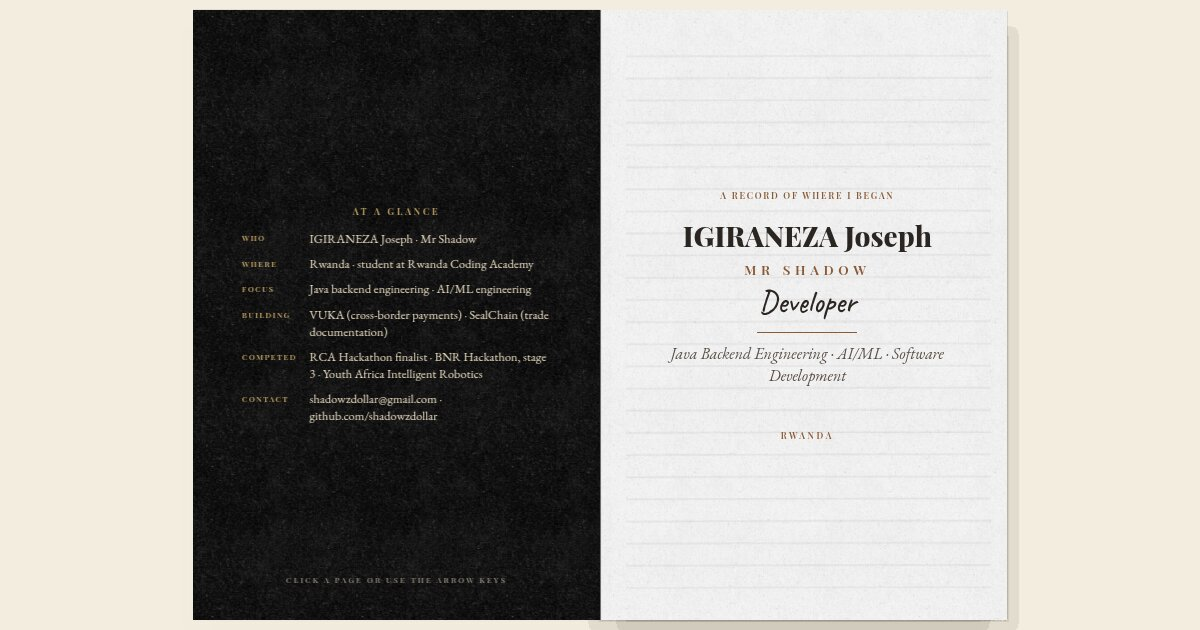
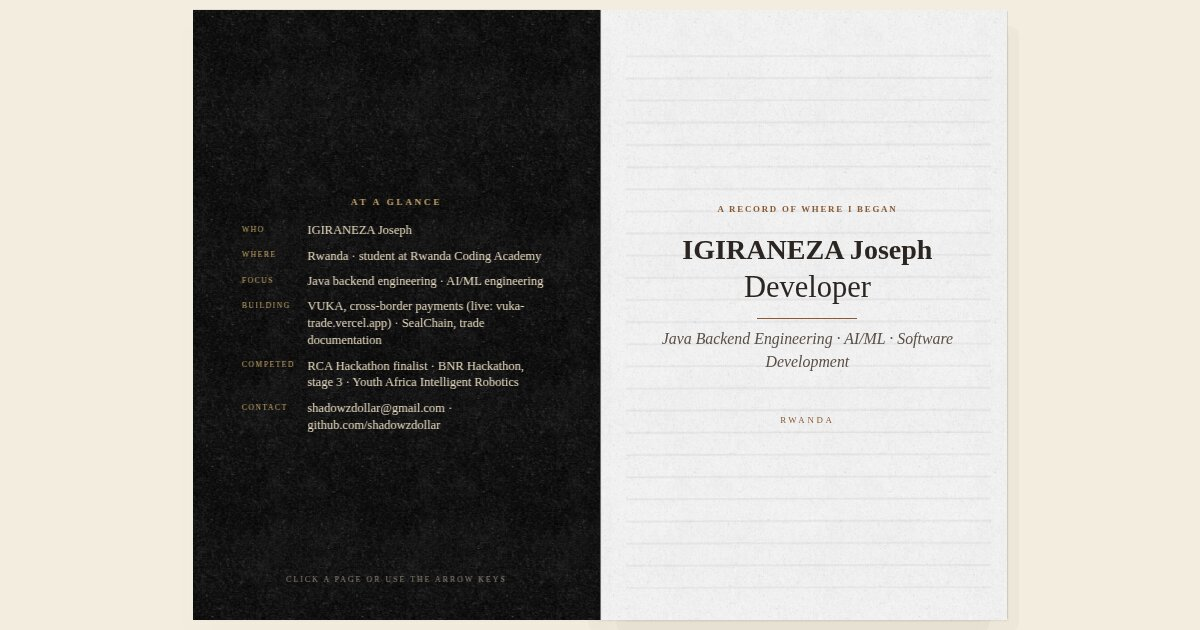
Update: contents.md,css,images,index.html (2026-10-13 11:08)

diff --git a/index.html b/index.html
@@ -3,11 +3,11 @@
   <head>
     <meta charset="utf-8" />
     <title>I.JOSEPH</title>
-    <meta content="Portfolio of IGIRANEZA Joseph (Mr Shadow), a developer from Rwanda focused on Java backend engineering and AI/ML engineering." name="description" />
-    <meta content="IGIRANEZA Joseph | Mr Shadow — Developer" property="og:title" />
-    <meta content="Portfolio of IGIRANEZA Joseph (Mr Shadow), a developer from Rwanda focused on Java backend engineering and AI/ML engineering." property="og:description" />
-    <meta content="IGIRANEZA Joseph | Mr Shadow — Developer" property="twitter:title" />
-    <meta content="Portfolio of IGIRANEZA Joseph (Mr Shadow), a developer from Rwanda focused on Java backend engineering and AI/ML engineering." property="twitter:description" />
+    <meta content="Portfolio of IGIRANEZA Joseph, a developer from Rwanda focused on Java backend engineering and AI/ML engineering." name="description" />
+    <meta content="IGIRANEZA Joseph — Developer" property="og:title" />
+    <meta content="Portfolio of IGIRANEZA Joseph, a developer from Rwanda focused on Java backend engineering and AI/ML engineering." property="og:description" />
+    <meta content="IGIRANEZA Joseph — Developer" property="twitter:title" />
+    <meta content="Portfolio of IGIRANEZA Joseph, a developer from Rwanda focused on Java backend engineering and AI/ML engineering." property="twitter:description" />
     <meta property="og:type" content="website" />
     <meta content="summary_large_image" name="twitter:card" />
     <meta content="width=device-width, initial-scale=1" name="viewport" />
@@ -82,8 +82,8 @@
     <div class="preloader" id="preloader" role="status" aria-label="Loading portfolio">
       <div class="pl-inner">
         <div class="pl-photo"><img src="images/portrait.jpg" alt="IGIRANEZA Joseph" width="480" height="480" fetchpriority="high" /></div>
-        <div class="pl-name">IGIRANEZA Joseph</div>
-        <div class="pl-alias">Mr Shadow</div>
+        <div class="pl-name">Developer · Rwanda</div>
+        <div class="pl-alias">IGIRANEZA Joseph</div>
         <div class="pl-bar"><span></span></div>
         <div class="pl-note">opening the book…</div>
       </div>
@@ -91,7 +91,7 @@
     <noscript><style>.preloader { display: none; }</style></noscript>
     <div class="pm-body">
       <nav class="topbar" aria-label="Quick navigation">
-        <a href="#" class="tb-brand" data-goto="title">Mr Shadow</a>
+        <a href="#" class="tb-brand" data-goto="title">IGIRANEZA Joseph</a>
         <div class="tb-links">
           <a href="#" data-goto="contents">Contents</a>
           <a href="#" data-goto="vuka">Projects</a>
@@ -104,7 +104,7 @@
       </nav>
       <div class="pmheader">
         <div class="pmpadding">
-          <div class="pm-h3">IGIRANEZA Joseph<br />Mr Shadow · Developer</div>
+          <div class="pm-h3">IGIRANEZA Joseph<br />Developer</div>
         </div>
       </div>
       <div class="document-view wf-section">
@@ -114,13 +114,13 @@
             <div class="pm-text">Click to <br />Open Book!</div><img src="images/6054c759190363824b1d7fca_arrowtrans.gif" loading="lazy" alt="" class="gif-arrow" />
           </div>
           <div data-w-id="65f307ee-3fe8-2992-eb5c-3535a026dd89" class="spine cover">
-            <div class="right-side-front"><img src="images/6054cb7669098e7c9a5b49f6_cover.jpg" loading="eager" id="w-node-_65f307ee-3fe8-2992-eb5c-3535a026dd8b-461d7f52" sizes="(max-width: 479px) 39vw, (max-width: 767px) 36vw, (max-width: 991px) 47vw, 41vw" alt="Book cover: IGIRANEZA Joseph, Mr Shadow, Developer" srcset="images/6054cb7669098e7c9a5b49f6_cover-p-500.jpeg 500w, images/6054cb7669098e7c9a5b49f6_cover.jpg 800w" class="right-image-contain" />
+            <div class="right-side-front"><img src="images/6054cb7669098e7c9a5b49f6_cover.jpg" loading="eager" id="w-node-_65f307ee-3fe8-2992-eb5c-3535a026dd8b-461d7f52" sizes="(max-width: 479px) 39vw, (max-width: 767px) 36vw, (max-width: 991px) 47vw, 41vw" alt="Book cover: IGIRANEZA Joseph, Developer" srcset="images/6054cb7669098e7c9a5b49f6_cover-p-500.jpeg 500w, images/6054cb7669098e7c9a5b49f6_cover.jpg 800w" class="right-image-contain" />
               <div id="w-node-_65f307ee-3fe8-2992-eb5c-3535a026dd8c-461d7f52" class="image-overlay"></div>
               <div class="page-content cover">
 <div class="cover-frame">
   <div class="cv-name">IGIRANEZA Joseph</div>
   <div class="cv-orn">✦</div>
-  <div class="cv-photo"><img src="images/portrait.jpg" alt="Portrait of IGIRANEZA Joseph, Mr Shadow" /></div>
+  <div class="cv-photo"><img src="images/portrait.jpg" alt="Portrait of IGIRANEZA Joseph" /></div>
   <div class="cv-role">Developer</div>
   <div class="cv-orn">✦</div>
   <div class="cv-tag">Java Backend Engineering · AI/ML · Software Development</div>
@@ -133,7 +133,7 @@
   <div class="glance">
     <div class="gl-head">At a glance</div>
     <dl>
-      <dt>Who</dt><dd>IGIRANEZA Joseph · Mr Shadow</dd>
+      <dt>Who</dt><dd>IGIRANEZA Joseph</dd>
       <dt>Where</dt><dd>Rwanda · student at Rwanda Coding Academy</dd>
       <dt>Focus</dt><dd>Java backend engineering · AI/ML engineering</dd>
       <dt>Building</dt><dd>VUKA, cross-border payments (live: vuka-trade.vercel.app) · SealChain, trade documentation</dd>
@@ -152,7 +152,6 @@
 <div class="titlepage">
   <div class="kicker center">A record of where I began</div>
   <h1 class="tp-name">IGIRANEZA Joseph</h1>
-  <div class="tp-alias">MR SHADOW</div>
   <div class="tp-role">Developer</div>
   <div class="tp-rule"></div>
   <div class="tp-tag">Java Backend Engineering · AI/ML · Software Development</div>
@@ -167,7 +166,7 @@
           <div class="spine _3">
             <div class="right-side-front"><img src="images/6054cb657ad51c7bc3a37a65_page.jpg" id="w-node-_65f307ee-3fe8-2992-eb5c-3535a026dd99-461d7f52" sizes="(max-width: 479px) 39vw, (max-width: 767px) 36vw, (max-width: 991px) 47vw, 41vw" loading="lazy" alt="" srcset="images/6054cb657ad51c7bc3a37a65_page-p-500.jpeg 500w, images/6054cb657ad51c7bc3a37a65_page.jpg 800w" class="right-image-contain" />
               <div id="w-node-_65f307ee-3fe8-2992-eb5c-3535a026dd9a-461d7f52" class="image-overlay"></div>
-              <div class="page-content paper"><div class="pc" data-page="about"><div class="kicker">01 · About</div><h2 class="ptitle">More Than Code</h2><div class="sub">Who I Am</div><p>I am IGIRANEZA Joseph, known as <strong>Mr Shadow</strong>, a developer from Rwanda who builds technology that solves real problems.</p><p>I started programming in <strong>S4, in 2025</strong>, moving from HTML, CSS, JavaScript, PHP and C to C++, Python and Java.</p><p>Today I study at <strong>Rwanda Coding Academy</strong>, keeping <strong>87+ marks across my subjects</strong> while building projects outside the classroom.</p><h3 class="h3">How I work</h3><ol class="pipeline"><li>Problem</li><li>Architecture</li><li>Implementation</li><li>Testing</li><li>Iteration</li></ol></div><div class="folio">3</div></div>
+              <div class="page-content paper"><div class="pc" data-page="about"><div class="kicker">01 · About</div><h2 class="ptitle">More Than Code</h2><div class="sub">Who I Am</div><p>I am <strong>IGIRANEZA Joseph</strong>, a developer from Rwanda who builds technology that solves real problems.</p><p>I started programming in <strong>S4, in 2025</strong>, moving from HTML, CSS, JavaScript, PHP and C to C++, Python and Java.</p><p>Today I study at <strong>Rwanda Coding Academy</strong>, keeping <strong>87+ marks across my subjects</strong> while building projects outside the classroom.</p><h3 class="h3">How I work</h3><ol class="pipeline"><li>Problem</li><li>Architecture</li><li>Implementation</li><li>Testing</li><li>Iteration</li></ol></div><div class="folio">3</div></div>
             </div>
             <div class="left-side-back"><img src="images/6054cb657ad51c7bc3a37a65_page.jpg" id="w-node-_65f307ee-3fe8-2992-eb5c-3535a026dd9c-461d7f52" sizes="(max-width: 479px) 39vw, (max-width: 767px) 36vw, (max-width: 991px) 47vw, 41vw" loading="lazy" alt="" srcset="images/6054cb657ad51c7bc3a37a65_page-p-500.jpeg 500w, images/6054cb657ad51c7bc3a37a65_page.jpg 800w" class="left-side-contain" />
               <div id="w-node-_65f307ee-3fe8-2992-eb5c-3535a026dd9d-461d7f52" class="image-overlay left"></div>
@@ -200,7 +199,7 @@
               <div class="page-content paper"><div class="pc" data-page="connect"><div class="kicker">07 · Contact</div><h2 class="ptitle">Let’s Build Something</h2><div class="sub"></div><p>If you want to talk about software, AI/ML, backend engineering, technology, or a project worth building, I’d be happy to connect.</p>
 <div class="card">
   <div class="card-name">IGIRANEZA Joseph</div>
-  <div class="card-alias">Mr Shadow · Developer</div>
+  <div class="card-alias">Developer</div>
   <div class="card-tag">Java Backend Engineering · AI/ML · Software Development</div>
   <p class="field"><img class="brand" src="images/icons/github.svg" alt="" /><span class="label">GitHub</span> <a href="https://github.com/shadowzdollar" target="_blank" rel="noopener">github.com/shadowzdollar</a></p>
   <p class="field"><img class="brand" src="images/icons/gmail.svg" alt="" /><span class="label">Email</span> <a href="mailto:shadowzdollar@gmail.com">shadowzdollar@gmail.com</a></p>
@@ -222,16 +221,15 @@
               <div id="w-node-ab5ca951-d5ce-0879-2ac5-e6dd4af0de9c-461d7f52" class="image-overlay"></div>
               <div class="page-content dark">
 <div class="endpaper">
-  <div class="ep-small">IGIRANEZA Joseph</div>
-  <div class="ep-hand">— Mr Shadow</div>
+  <div class="ep-hand">— IGIRANEZA Joseph</div>
 </div></div>
             </div>
             <div class="left-side-back"><img src="images/6054cb7669098e7c9a5b49f6_cover.jpg" id="w-node-ab5ca951-d5ce-0879-2ac5-e6dd4af0de9e-461d7f52" sizes="(max-width: 479px) 39vw, (max-width: 767px) 172.576904296875px, (max-width: 991px) 47vw, 41vw" loading="lazy" alt="" srcset="images/6054cb7669098e7c9a5b49f6_cover-p-500.jpeg 500w, images/6054cb7669098e7c9a5b49f6_cover.jpg 800w" class="left-side-contain" />
               <div id="w-node-ab5ca951-d5ce-0879-2ac5-e6dd4af0de9f-461d7f52" class="image-overlay left"></div>
               <div class="page-content cover">
 <div class="cover-frame back">
-  <div class="cv-mono">MS</div>
-  <div class="cv-role">IGIRANEZA Joseph · Mr Shadow</div>
+  <div class="cv-mono">IJ</div>
+  <div class="cv-role">IGIRANEZA Joseph</div>
   <div class="cv-tag">github.com/shadowzdollar</div>
 </div></div>
             </div>
@@ -242,8 +240,8 @@
         <div class="pmpadding">
           <div class="pm-center">
             <div class="product-description">
-              <div class="pm-h3">Mr Shadow</div>
-              <div class="description">IGIRANEZA Joseph — a developer from Rwanda.<br />Java Backend Engineering · AI/ML · Software Development</div><a href="https://github.com/shadowzdollar" target="_blank" rel="noopener" class="pmbutton w-button">Explore my GitHub</a>
+              <div class="pm-h3">IGIRANEZA Joseph</div>
+              <div class="description">A developer from Rwanda.<br />Java Backend Engineering · AI/ML · Software Development</div><a href="https://github.com/shadowzdollar" target="_blank" rel="noopener" class="pmbutton w-button">Explore my GitHub</a>
             </div>
           </div>
         </div>
@@ -253,10 +251,10 @@
           <div class="pm-center">
             <div>
               <div class="zine-credits">
-                <div class="footer">IGIRANEZA Joseph · Mr Shadow</div>
+                <div class="footer">IGIRANEZA Joseph</div>
               </div><img src="images/handshake-stamp.gif" loading="eager" alt="Two hands shaking" class="logo" />
               <div class="footer">The next page is still being written.<br /><a href="https://github.com/shadowzdollar" target="_blank" rel="noopener" class="pm-link">GitHub</a></div>
-              <div class="credit">© 2026 Mr Shadow · <a href="mailto:shadowzdollar@gmail.com" class="pm-link">shadowzdollar@gmail.com</a></div>
+              <div class="credit">© 2026 IGIRANEZA Joseph · <a href="mailto:shadowzdollar@gmail.com" class="pm-link">shadowzdollar@gmail.com</a></div>
             </div>
           </div>
         </div>

diff --git a/css/portfolio.css b/css/portfolio.css
@@ -510,7 +510,7 @@ html:has(.preloader:not(.is-done)) { overflow: hidden; }
   color: var(--gold);
   animation: pl-fade 0.8s 0.25s ease-out both;
 }
-.pl-alias { margin-top: 2px; font-family: var(--hand); font-size: 44px; line-height: 1.1; animation: pl-fade 0.8s 0.4s ease-out both; }
+.pl-alias { margin-top: 2px; font-family: var(--hand); font-size: clamp(32px, 9vw, 44px); white-space: nowrap; line-height: 1.1; animation: pl-fade 0.8s 0.4s ease-out both; }
 .pl-bar { position: relative; width: 140px; height: 1px; margin-top: 22px; overflow: hidden; background: rgba(201, 168, 106, 0.25); }
 .pl-bar span { position: absolute; inset: 0; width: 40%; background: var(--gold); animation: pl-load 1.3s ease-in-out infinite; }
 .pl-note { margin-top: 12px; font-family: var(--serif); font-style: italic; font-size: 14px; opacity: 0.55; }

diff --git a/contents.md b/contents.md
@@ -1,7 +1,5 @@
 # IGIRANEZA Joseph
 
-## MR SHADOW
-
 ### Developer
 
 **Java Backend Engineering · AI/ML · Software Development**
@@ -12,7 +10,7 @@
 
 ## More Than Code
 
-I am IGIRANEZA Joseph, known as **Mr Shadow**, a developer from Rwanda who builds technology that solves real problems.
+I am **IGIRANEZA Joseph**, a developer from Rwanda who builds technology that solves real problems.
 
 I started programming in **S4, in 2025**, moving from HTML, CSS, JavaScript, PHP and C to C++, Python and Java.
 
